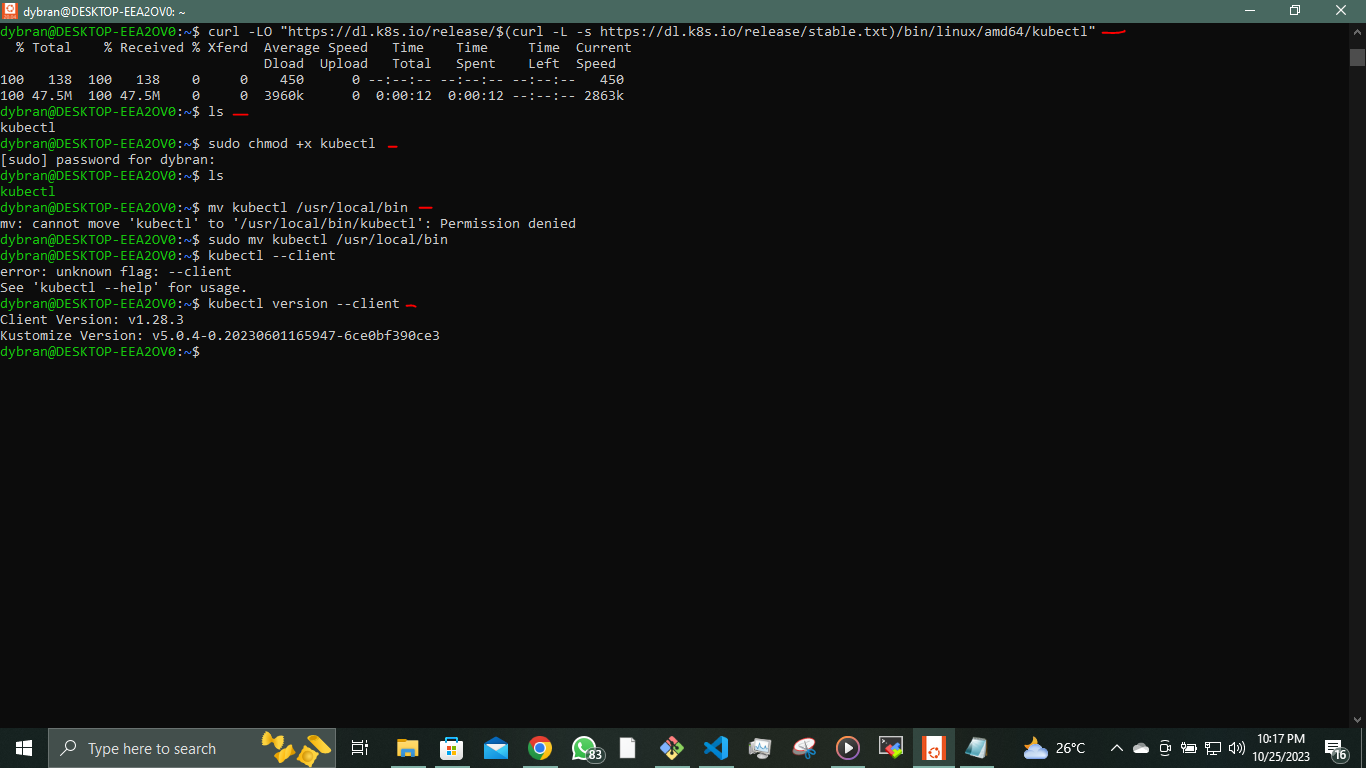
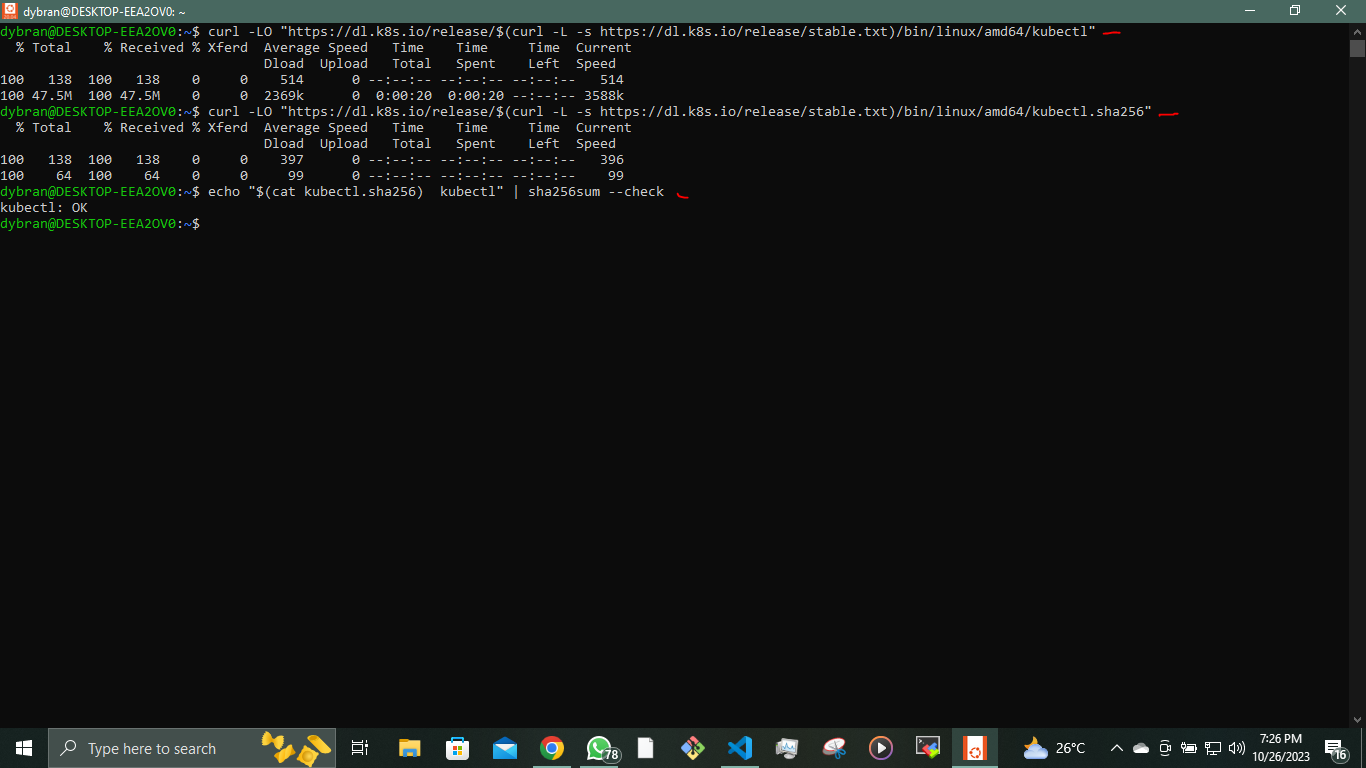
update

diff --git a/Project-22.md b/Project-22.md
@@ -96,6 +96,12 @@ For the WSL to interact with the AWS we need to install __awscli__ and configure
 
 `$ aws configure`
 
+![](./images/g.PNG)
+![](./images/g1.PNG)
+
+To verify run any __aws__ command
+
+`$ aws s3 ls`
 
 Setup __kubectl__
 
@@ -105,33 +111,31 @@ Install kubectl
 
 `$ curl -LO "https://dl.k8s.io/release/$(curl -L -s https://dl.k8s.io/release/stable.txt)/bin/linux/amd64/kubectl"`
 
-Make kubectl executable
+Download the kubectl checksum file
 
-`$ sudo chmod +x kubectl`
+`$ curl -LO "https://dl.k8s.io/release/$(curl -L -s https://dl.k8s.io/release/stable.txt)/bin/linux/amd64/kubectl.sha256"`
 
-To make kubectl globally accessible
+Validate the kubectl binary against the checksum file
 
-`$ sudo mv kubectl /usr/local/bin/`
+`$ echo "$(cat kubectl.sha256)  kubectl" | sha256sum --check`
+
+Install kubectl
+
+`$ sudo install -o root -g root -m 0755 kubectl /usr/local/bin/kubectl`
 
 Verify
 
 `$ kubectl version --client`
 
 ![](./images/kkk.PNG)
+![](./images/kkk1.PNG)
 
-![](./images/g.PNG)
-![](./images/g1.PNG)
-
-To verify run any __aws__ command
-
-`$ aws s3 ls`
 
 Now, you have __eksctl__ installed on your Windows system through __WSL__. You can use it to interact with Amazon EKS clusters.
 
 ```
 $ eksctl create cluster \
   --name deploy \
-  --version 1.26 \
   --region us-east-1 \
   --nodegroup-name worker \
   --node-type t2.micro \
